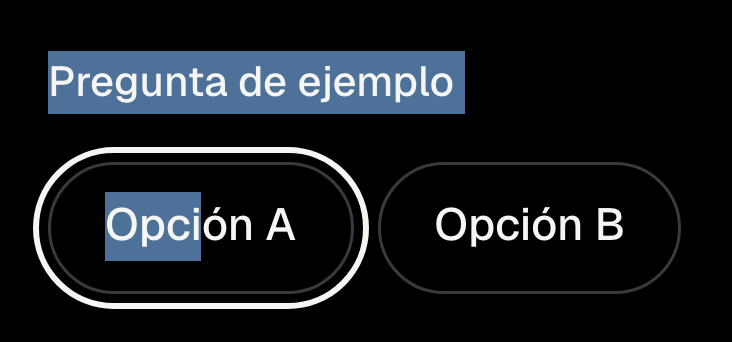
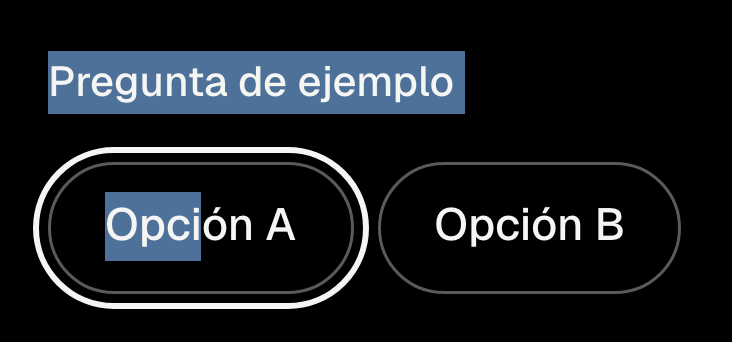
fix(componentes): píldoras a 3:1 y cursor del primario también en presionado y foco
Borde de la píldora en #5A5A5E, igual que el campo (fuera --borde-suave). El
cursor ▍ sale en :active y :focus-visible para verse en el celular; captura del
toque a 375 px. calidad.md al día.

diff --git a/app/globals.css b/app/globals.css
@@ -66,11 +66,9 @@
     --foco: var(--texto);
     /* Solo para errores, nunca como adorno (docs/calidad.md). */
     --alerta: 255 107 90;
-    /* Contorno de botones secundarios y campos: 3.06:1 sobre noche. */
+    /* Contorno de botones secundarios, campos y píldoras: 3.06:1 sobre noche. */
     --borde: 90 90 94;
     --borde-hover: var(--neblina);
-    /* Borde de las opciones en píldora: el texto las identifica. */
-    --borde-suave: 58 58 61;
     --placeholder: 122 122 128;
   }
 
@@ -89,7 +87,6 @@
     --alerta: 179 38 30;
     --borde: var(--grafito);
     --borde-hover: var(--tinta);
-    --borde-suave: 217 217 214;
     --placeholder: var(--grafito);
   }
 
@@ -161,15 +158,19 @@
   }
 }
 
-/* Botón primario (docs/calidad.md § 3). En hover aparece el cursor del
-   logo después del texto: es la firma de STRING y solo vive aquí. Mientras
-   se envía, el cursor escribe. Con menos movimiento aparece fijo. */
+/* Botón primario (docs/calidad.md § 3). En hover, presionado y foco
+   aparece el cursor del logo después del texto (presionado, para que se vea
+   en el celular, donde no hay hover): es la firma de STRING y solo vive
+   aquí. Mientras se envía, el cursor escribe. Con menos movimiento aparece
+   fijo. */
 @layer components {
   .boton-cursor {
     opacity: 0;
   }
 
   .boton-firma:hover .boton-cursor,
+  .boton-firma:active .boton-cursor,
+  .boton-firma:focus-visible .boton-cursor,
   .boton-cursor-escribe {
     opacity: 1;
     animation: logo-bloque var(--parpadeo) steps(1) infinite;
@@ -177,6 +178,8 @@
 
   @media (prefers-reduced-motion: reduce) {
     .boton-firma:hover .boton-cursor,
+    .boton-firma:active .boton-cursor,
+    .boton-firma:focus-visible .boton-cursor,
     .boton-cursor-escribe {
       animation: none;
     }

diff --git a/e2e/componentes.spec.js b/e2e/componentes.spec.js
@@ -264,3 +264,32 @@ test.describe("páginas", () => {
     });
   }
 });
+
+// En el celular el cursor ▍ del primario sale al presionar con el dedo.
+// Un toque largo de Chrome (synthesizeTapGesture) deja el botón en :active.
+test.describe("con el dedo", () => {
+  test.use({ isMobile: true, hasTouch: true });
+
+  test("el primario muestra el cursor al presionar a 375 px", async ({ page }) => {
+    await page.setViewportSize({ width: 375, height: 812 });
+    await page.goto("/muestrario");
+    const muestra = page.locator('[data-muestra="primario-noche-reposo"]');
+    const boton = muestra.locator("button");
+    const caja = await boton.boundingBox();
+    const cdp = await page.context().newCDPSession(page);
+    const toque = cdp.send("Input.synthesizeTapGesture", {
+      x: caja.x + caja.width / 2,
+      y: caja.y + caja.height / 2,
+      duration: 2000,
+      gestureSourceType: "touch",
+    });
+    await expect.poll(() => boton.evaluate((e) => e.matches(":active"))).toBe(true);
+    await muestra.screenshot({
+      path: `${CAPTURAS}/estados/boton-primario-noche-3-presionado-dedo.png`,
+      animations: "disabled",
+    });
+    // Con la animación quieta, el cursor queda encendido.
+    expect(await muestra.locator(".boton-cursor").evaluate((e) => getComputedStyle(e).opacity)).toBe("1");
+    await toque;
+  });
+});

diff --git a/app/components/ui/Opciones.jsx b/app/components/ui/Opciones.jsx
@@ -19,7 +19,7 @@ export function Opciones({ nombre, legenda, opciones, registrar, error, disabled
       <legend className="mb-space-3 text-[14px] font-medium text-texto">{legenda}</legend>
       <div className="flex flex-wrap gap-space-2">
         {opciones.map((opcion) => (
-          <label key={opcion} className={`${PILDORA} ${error ? "border-alerta" : "border-borde-suave"}`}>
+          <label key={opcion} className={`${PILDORA} ${error ? "border-alerta" : "border-borde"}`}>
             <input type="radio" value={opcion} {...registrar(nombre)} className="sr-only" />
             <FiCheck aria-hidden="true" className="hidden h-4 w-4 flex-shrink-0 group-has-[:checked]/opcion:block" />
             {opcion}

diff --git a/tailwind.config.js b/tailwind.config.js
@@ -42,7 +42,6 @@ module.exports = {
       alerta: "rgb(var(--alerta) / <alpha-value>)",
       borde: "rgb(var(--borde) / <alpha-value>)",
       "borde-hover": "rgb(var(--borde-hover) / <alpha-value>)",
-      "borde-suave": "rgb(var(--borde-suave) / <alpha-value>)",
       placeholder: "rgb(var(--placeholder) / <alpha-value>)",
       "boaz-azul": "rgb(var(--boaz-azul) / <alpha-value>)",
       // Legado de la marca anterior: lo usan las salas que se rehacen en

diff --git a/app/components/ui/Boton.jsx b/app/components/ui/Boton.jsx
@@ -51,7 +51,8 @@ function clasesVariante(variante, estado, interactivo) {
   }`;
 }
 
-// El cursor ▍ del logo: en hover del primario y mientras se envía. Va fuera
+// El cursor ▍ del logo: en hover, presionado y foco del primario, y
+// mientras se envía. Va fuera
 // del flujo, en el relleno, para que el texto no se mueva al aparecer.
 function Cursor({ escribe = false }) {
   return (

diff --git a/docs/calidad.md b/docs/calidad.md
@@ -52,16 +52,16 @@ Píldora, alto mínimo 48 px (44 px en barra), Geist 600 16 px, padding horizont
 | Estado | Primario (noche) | Secundario | De texto |
 |---|---|---|---|
 | Reposo | Fondo `#50FF05`, texto negro | Borde 1 px `#5A5A5E`, texto línea | Texto línea, subrayado 1 px `#5A5A5E` a 6 px, flecha → |
-| Hover | **Aparece el cursor ▍ del logo después del texto, parpadeando a 1.1 s** | Borde línea, fondo línea al 6 % | Subrayado en línea; la flecha avanza 4 px (normal) |
-| Presionado | `scale(.97)`, fondo `#46E000` (rápido) | `scale(.97)` | Texto neblina |
-| Foco | Contorno 2 px línea, separación 3 px | Igual | Igual |
+| Hover | **Aparece el cursor ▍ del logo después del texto, parpadeando a 1.1 s** (también en presionado y en foco, para que se vea en celular, donde no hay hover) | Borde línea, fondo línea al 6 % | Subrayado en línea; la flecha avanza 4 px (normal) |
+| Presionado | `scale(.97)`, fondo `#46E000` (rápido), con el cursor ▍ | `scale(.97)` | Texto neblina |
+| Foco | Contorno 2 px línea, separación 3 px; en el primario, con el cursor ▍ | Igual | Igual |
 | Cargando | Texto "Enviando" + el cursor ▍ parpadeando, como si escribiera | Igual, en línea | No aplica |
 | Deshabilitado | Opacidad 40 %, cursor not-allowed | Igual | Igual |
 | Éxito | Palomita + "Enviado" | Borde y texto en luz | No aplica |
 | Error | Fondo transparente, borde y texto alerta, ícono + "Intenta de nuevo" | Borde y texto alerta | No aplica |
 
 - **Sobre pared**, el primario usa verde profundo `#1A7F00` con texto pared `#F4F2EC`; presionado `#156900`; foco en tinta; error en alerta de pared.
-- **El cursor en hover es solo del primario**: es la firma de STRING y no se usa en ningún otro componente.
+- **El cursor (hover, presionado y foco) es solo del primario**: es la firma de STRING y no se usa en ningún otro componente.
 - Con menos movimiento, el cursor aparece fijo, sin parpadear, y no hay `scale`.
 
 ### Campo de texto
@@ -78,7 +78,7 @@ Borde 1 px `#5A5A5E`, radio 12 px, alto 48 px, Geist 16 px, etiqueta visible arr
 
 ### Opción en píldora
 
-Borde 1 px `#3A3A3D`, alto 44 px, Geist 500 15 px. Hover: borde línea. **Elegida: fondo luz, texto negro y palomita**, con `aria-pressed` o radio real. Foco: contorno 2 px línea.
+Borde 1 px `#5A5A5E` (3.06:1 sobre noche, igual que el campo), alto 44 px, Geist 500 15 px. Hover: borde línea. **Elegida: fondo luz, texto negro y palomita**, con `aria-pressed` o radio real. Foco: contorno 2 px línea.
 
 ### Tarjeta (niveles, enlaces a páginas)
 
